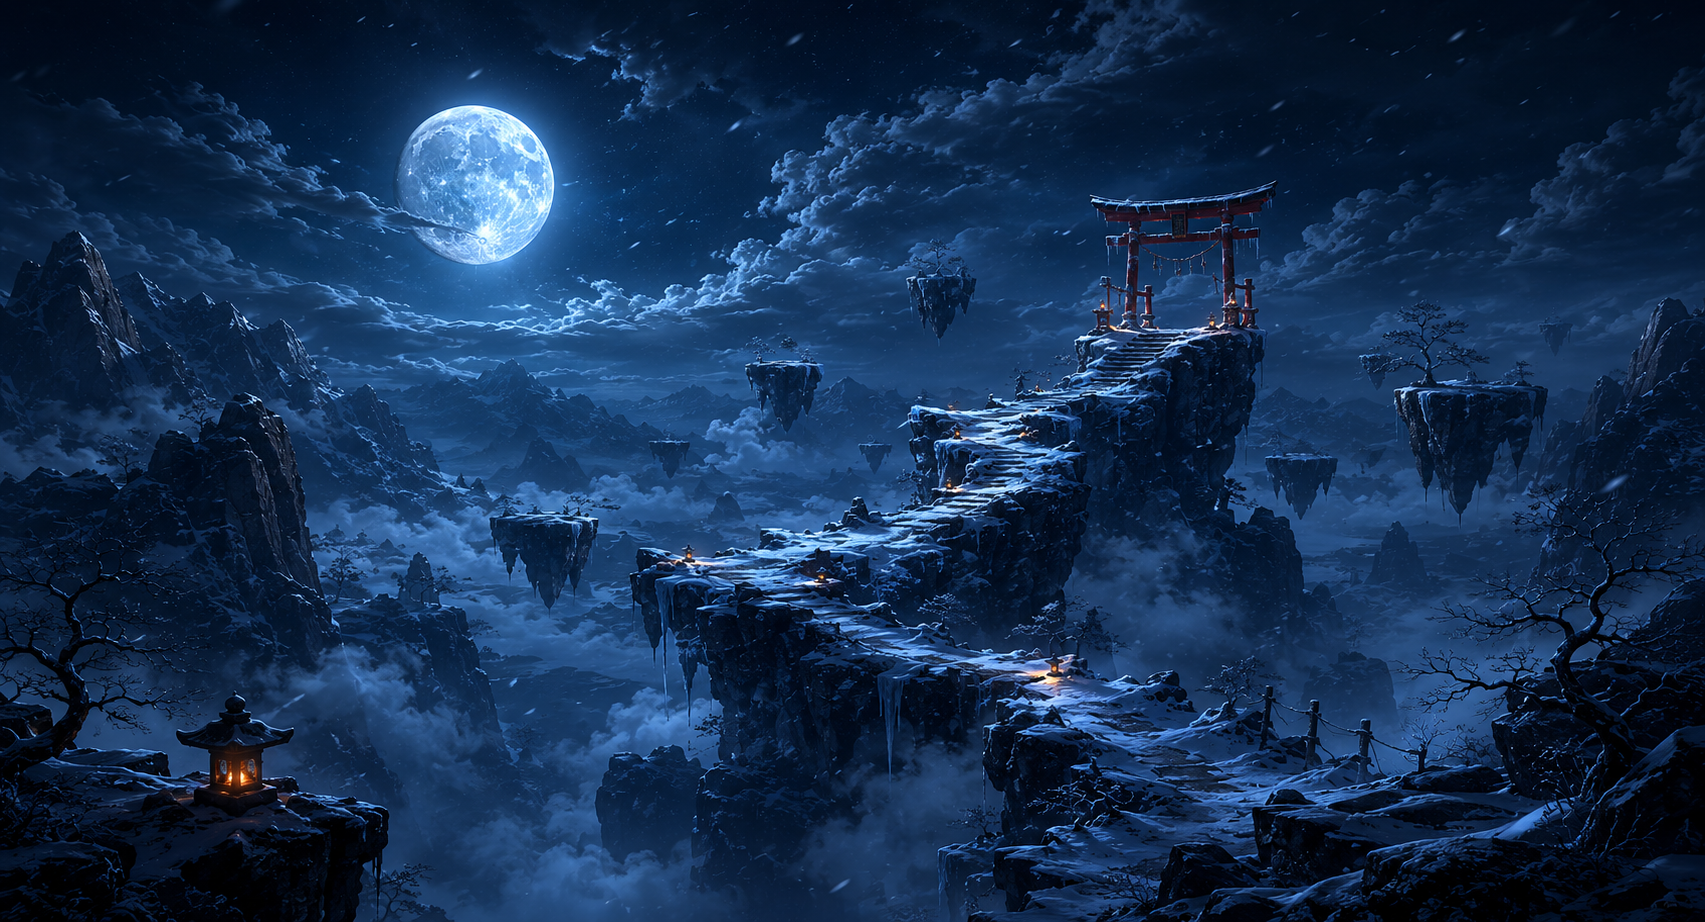
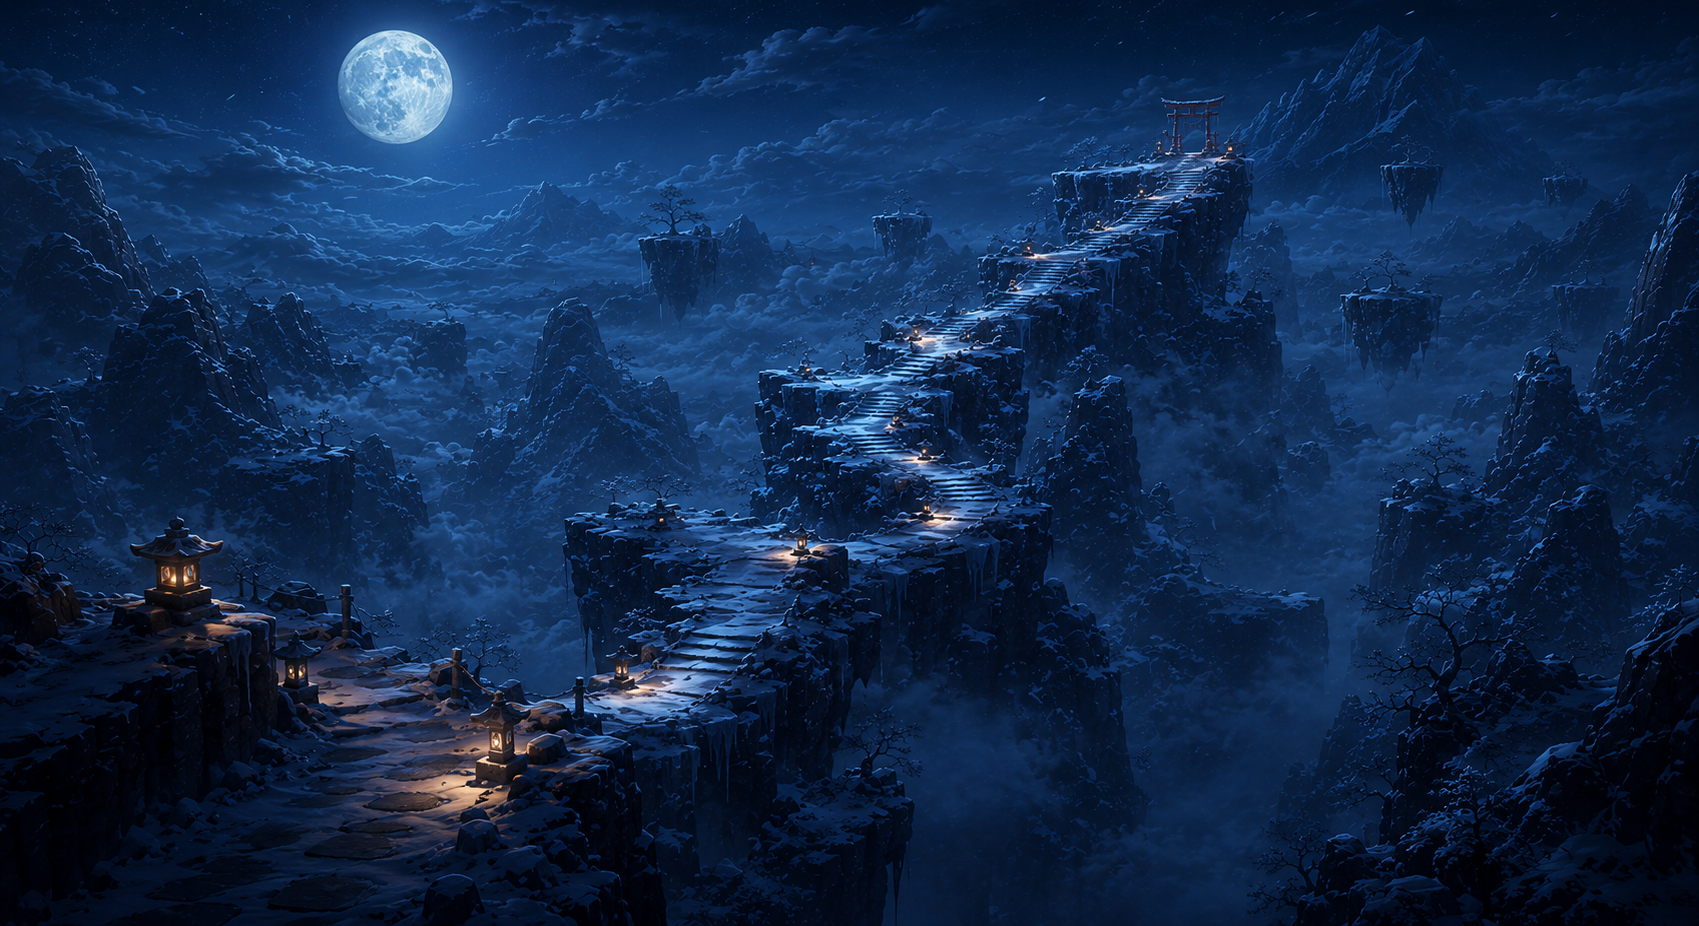
se añadi mecanica de muerte y escenario para el nivel2

diff --git a/gui/escenajuego.cpp b/gui/escenajuego.cpp
@@ -2,13 +2,17 @@
 
 #include <algorithm>
 #include <QAudioOutput>
+#include <QApplication>
 #include <QCoreApplication>
+#include <QDebug>
 #include <QDir>
 #include <QFileInfo>
 #include <QMediaPlayer>
+#include <QMouseEvent>
 #include <QPainter>
 #include <QRandomGenerator>
 #include <QUrl>
+#include <stdexcept>
 
 void detenerMusicaMenuNivel1();
 
@@ -44,6 +48,32 @@ static QString rutaRecurso(const QString& nombreArchivo)
 static QString rutaSonido(const QString& nombreArchivo)
 {
     return rutaRecurso("sounds/" + nombreArchivo);
+}
+
+static void exigirRecurso(const QString& nombreArchivo)
+{
+    const QString ruta = rutaRecurso(nombreArchivo);
+    if(!QFileInfo::exists(ruta))
+        throw std::runtime_error(("No se encontro el recurso: " + nombreArchivo).toStdString());
+}
+
+static void validarRecursosCriticos()
+{
+    const QStringList recursos = {
+        "sprites.png",
+        "spritesreves.png",
+        "sprites2.png",
+        "wasted.png",
+        "repetir.png",
+        "salir.png",
+        "sounds/nivel1.mp3",
+        "sounds/nivel2.mp3",
+        "sounds/golpe_danio.mp3",
+        "sounds/muerte.mp3"
+    };
+
+    for(const QString& recurso : recursos)
+        exigirRecurso(recurso);
 }
 
 static QPixmap quitarFondoAzul(const QString& ruta)
@@ -98,6 +128,15 @@ EscenaJuego::EscenaJuego(QWidget *parent, int dificultad)
     jugador(100, 100),
     gravedad(0.5f)
 {
+    try
+    {
+        validarRecursosCriticos();
+    }
+    catch(const std::exception& error)
+    {
+        qWarning() << error.what();
+    }
+
     escena = new QGraphicsScene(this);
     setScene(escena);
     etapa    = 1;
@@ -155,18 +194,24 @@ EscenaJuego::EscenaJuego(QWidget *parent, int dificultad)
     QPixmap hojaSprites(rutaRecurso("sprites.png"));
     QPixmap hojaSpritesReves(rutaRecurso("spritesreves.png"));
     QPixmap hojaSprites2(rutaRecurso("sprites2.png"));
-    spriteQuieto = quitarFondoNegro(hojaSprites.copy(45, 45, 260, 280));
-    spriteSaltar = quitarFondoNegro(hojaSprites.copy(330, 45, 260, 290));
-    spriteCayendo = quitarFondoNegro(hojaSprites.copy(55, 340, 300, 230));
-    spriteQuietoReves = quitarFondoNegro(hojaSpritesReves.copy(110, 85, 320, 380));
-    spriteSaltarReves = quitarFondoNegro(hojaSpritesReves.copy(560, 80, 330, 400));
-    spriteCayendoReves = quitarFondoNegro(hojaSpritesReves.copy(110, 520, 420, 275));
+    spriteNivel1Quieto = quitarFondoNegro(hojaSprites.copy(45, 45, 260, 280));
+    spriteNivel1Saltar = quitarFondoNegro(hojaSprites.copy(330, 45, 260, 290));
+    spriteNivel1Cayendo = quitarFondoNegro(hojaSprites.copy(55, 340, 300, 230));
+    spriteNivel1QuietoReves = quitarFondoNegro(hojaSpritesReves.copy(110, 85, 320, 380));
+    spriteNivel1SaltarReves = quitarFondoNegro(hojaSpritesReves.copy(560, 80, 330, 400));
+    spriteNivel1CayendoReves = quitarFondoNegro(hojaSpritesReves.copy(110, 520, 420, 275));
+    spriteNivel2Quieto = quitarFondoNegro(hojaSprites2.copy(85, 95, 330, 345));
+    spriteNivel2Saltar = quitarFondoNegro(hojaSprites2.copy(470, 35, 315, 365));
+    spriteNivel2Cayendo = quitarFondoNegro(hojaSprites2.copy(760, 265, 490, 205));
+    usarSpritesNivel1();
     spriteMuerto = quitarFondoNegro(QPixmap(rutaRecurso("Muerto.png")));
     spriteProteccion = quitarFondoNegro(QPixmap(rutaRecurso("proteccion.png")));
     spriteGolpe = quitarFondoNegro(QPixmap(rutaRecurso("golpe.png")));
     spriteGolpeEscudo = quitarFondoNegro(QPixmap(rutaRecurso("golpescudo.png")));
     spritePortal = hojaSprites2.copy(1235, 430, 405, 385).scaled(
         150, 155, Qt::KeepAspectRatio, Qt::SmoothTransformation);
+    spritePortalGuia = quitarFondoNegro(hojaSprites2.copy(450, 505, 270, 335)).scaled(
+        92, 112, Qt::KeepAspectRatio, Qt::SmoothTransformation);
     spriteAyuda = quitarFondoNegro(QPixmap(rutaRecurso("vida.png"))).scaled(
         82, 82, Qt::KeepAspectRatio, Qt::SmoothTransformation);
     spritePlataformaNieve = quitarFondoNegro(hojaSprites.copy(440, 375, 390, 180));
@@ -174,6 +219,9 @@ EscenaJuego::EscenaJuego(QWidget *parent, int dificultad)
         52, 52, Qt::KeepAspectRatio, Qt::SmoothTransformation);
     spritePiso.load(rutaRecurso("piso.png"));
     spritePiso2.load(rutaRecurso("piso2.png"));
+    spriteWasted = QPixmap(rutaRecurso("wasted.png"));
+    spriteBotonRepetir = QPixmap(rutaRecurso("repetir.png"));
+    spriteBotonSalir = QPixmap(rutaRecurso("salir.png"));
 
     jugadorVisual = escena->addPixmap(spriteQuieto.scaled(80, 80, Qt::KeepAspectRatio,
                                                           Qt::SmoothTransformation));
@@ -246,6 +294,26 @@ void EscenaJuego::agregarPiso(float x, float yMundo, float ancho, float alto)
     plataformasVisuales.push_back(piso);
 }
 
+void EscenaJuego::usarSpritesNivel1()
+{
+    spriteQuieto = spriteNivel1Quieto;
+    spriteSaltar = spriteNivel1Saltar;
+    spriteCayendo = spriteNivel1Cayendo;
+    spriteQuietoReves = spriteNivel1QuietoReves;
+    spriteSaltarReves = spriteNivel1SaltarReves;
+    spriteCayendoReves = spriteNivel1CayendoReves;
+}
+
+void EscenaJuego::usarSpritesNivel2()
+{
+    spriteQuieto = spriteNivel2Quieto;
+    spriteSaltar = spriteNivel2Saltar;
+    spriteCayendo = spriteNivel2Cayendo;
+    spriteQuietoReves = spriteNivel2Quieto;
+    spriteSaltarReves = spriteNivel2Saltar;
+    spriteCayendoReves = spriteNivel2Cayendo;
+}
+
 void EscenaJuego::construirMundo(int mundoAlto)
 {
     const int pisoBaseY = mundoAlto - ALTO_PANTALLA;
@@ -301,6 +369,10 @@ void EscenaJuego::construirMundo(int mundoAlto)
     meta = escena->addPixmap(spritePortal);
     meta->setPos(columnaEscaladaX + 620, 415);
     meta->setZValue(8);
+
+    QGraphicsPixmapItem* guiaPortal = escena->addPixmap(spritePortalGuia);
+    guiaPortal->setPos(columnaEscaladaX + 500, 448);
+    guiaPortal->setZValue(9);
 }
 
 void EscenaJuego::limpiarPlataformas()
@@ -391,6 +463,7 @@ void EscenaJuego::reproducirSonidoMuerte()
 void EscenaJuego::construirNivel2()
 {
     escena->clear();
+    usarSpritesNivel2();
     fondosItems.clear();
     plataformas.clear();
     obstaculos.clear();
@@ -406,6 +479,9 @@ void EscenaJuego::construirNivel2()
     ayudaVisual = nullptr;
     relojVisual = nullptr;
     vidaVisual = nullptr;
+    wastedVisual = nullptr;
+    botonRepetirVisual = nullptr;
+    botonSalirVisual = nullptr;
 
     escena->setSceneRect(0, 0, ANCHO_PANTALLA * 3, ALTO_PANTALLA);
 
@@ -470,16 +546,47 @@ void EscenaJuego::recibirDanio(int cantidad)
         timer->stop();
         juegoTerminado = true;
         reproducirSonidoMuerte();
+        mostrarPantallaMuerte();
+    }
+}
+
+void EscenaJuego::mostrarPantallaMuerte()
+{
+    QRectF vista = mapToScene(viewport()->rect()).boundingRect();
+    const QPointF centro = vista.center();
+
+    if(jugadorVisual && !spriteMuerto.isNull())
+    {
         jugadorVisual->setPixmap(spriteMuerto.scaled(95, 75, Qt::KeepAspectRatio,
                                                      Qt::SmoothTransformation));
         jugadorVisual->setPos(jugador.getX(), jugador.getY());
-
-        QGraphicsTextItem* texto = escena->addText("SIN VIDA");
-        texto->setDefaultTextColor(Qt::red);
-        texto->setScale(3);
-        texto->setZValue(1001);
-        texto->setPos(jugador.getX() - 80, jugador.getY() - 120);
     }
+
+    if(!spriteWasted.isNull())
+    {
+        wastedVisual = escena->addPixmap(spriteWasted.scaled(
+            310, 170, Qt::KeepAspectRatio, Qt::SmoothTransformation));
+        wastedVisual->setPos(centro.x() - wastedVisual->boundingRect().width() / 2.0,
+                             centro.y() - 180);
+        wastedVisual->setZValue(2000);
+    }
+
+    const QPixmap repetir = spriteBotonRepetir.scaled(
+        180, 126, Qt::KeepAspectRatio, Qt::SmoothTransformation);
+    const QPixmap salir = spriteBotonSalir.scaled(
+        180, 126, Qt::KeepAspectRatio, Qt::SmoothTransformation);
+    const float espacio = 24.0f;
+    const float totalAncho = repetir.width() + salir.width() + espacio;
+    const float yBotones = centro.y() + 20;
+
+    botonRepetirVisual = escena->addPixmap(repetir);
+    botonRepetirVisual->setPos(centro.x() - totalAncho / 2.0, yBotones);
+    botonRepetirVisual->setZValue(2001);
+
+    botonSalirVisual = escena->addPixmap(salir);
+    botonSalirVisual->setPos(centro.x() - totalAncho / 2.0 + repetir.width() + espacio,
+                             yBotones);
+    botonSalirVisual->setZValue(2001);
 }
 
 void EscenaJuego::curarJugador(int cantidad)
@@ -489,6 +596,54 @@ void EscenaJuego::curarJugador(int cantidad)
     vidaJugador = std::min(100, vidaJugador + cantidad);
     jugador.setVida(vidaJugador);
     actualizarVidaVisual();
+}
+
+void EscenaJuego::reiniciarNivelActual()
+{
+    if(musica) musica->stop();
+
+    juegoTerminado = false;
+    vidaJugador = 100;
+    jugador.setVida(vidaJugador);
+    jugador.setVelocidadX(0);
+    jugador.setVelocidadY(0);
+    jugador.setEnSuelo(true);
+    protegiendo = false;
+    potenciadorActivo = false;
+    tipoImpacto = 0;
+    estabaCayendo = false;
+
+    if(nivelJuego == 2)
+    {
+        construirNivel2();
+        reproducirMusicaNivel2();
+    }
+    else
+    {
+        if(wastedVisual) escena->removeItem(wastedVisual);
+        if(botonRepetirVisual) escena->removeItem(botonRepetirVisual);
+        if(botonSalirVisual) escena->removeItem(botonSalirVisual);
+        delete wastedVisual;
+        delete botonRepetirVisual;
+        delete botonSalirVisual;
+        wastedVisual = nullptr;
+        botonRepetirVisual = nullptr;
+        botonSalirVisual = nullptr;
+
+        usarSpritesNivel1();
+        jugador.setX(100);
+        jugador.setY(escena->sceneRect().bottom() - 150);
+        if(jugadorVisual)
+        {
+            jugadorVisual->setPixmap(spriteQuieto.scaled(80, 80, Qt::KeepAspectRatio,
+                                                         Qt::SmoothTransformation));
+            jugadorVisual->setPos(jugador.getX(), jugador.getY());
+        }
+        actualizarVidaVisual();
+        centerOn(jugador.getX() + 25, jugador.getY() + 25);
+    }
+
+    if(timer) timer->start(16);
 }
 
 void EscenaJuego::mostrarImpacto(bool conEscudo)
@@ -981,4 +1136,25 @@ void EscenaJuego::keyReleaseEvent(QKeyEvent *event)
 
     if(event->key() == Qt::Key_S)
         protegiendo = false;
+}
+
+void EscenaJuego::mousePressEvent(QMouseEvent *event)
+{
+    const QPointF punto = mapToScene(event->pos());
+
+    if(juegoTerminado && botonRepetirVisual &&
+        botonRepetirVisual->sceneBoundingRect().contains(punto))
+    {
+        reiniciarNivelActual();
+        return;
+    }
+
+    if(juegoTerminado && botonSalirVisual &&
+        botonSalirVisual->sceneBoundingRect().contains(punto))
+    {
+        qApp->quit();
+        return;
+    }
+
+    QGraphicsView::mousePressEvent(event);
 }

diff --git a/gui/escenajuego.h b/gui/escenajuego.h
@@ -79,7 +79,20 @@ private:
     void reproducirSonidoMuerte();
     void cambiarANivel2();
     void actualizarHud();
+    void mostrarPantallaMuerte();
+    void reiniciarNivelActual();
+    void usarSpritesNivel1();
+    void usarSpritesNivel2();
 
+    QPixmap spriteNivel1Quieto;
+    QPixmap spriteNivel1Saltar;
+    QPixmap spriteNivel1Cayendo;
+    QPixmap spriteNivel1QuietoReves;
+    QPixmap spriteNivel1SaltarReves;
+    QPixmap spriteNivel1CayendoReves;
+    QPixmap spriteNivel2Quieto;
+    QPixmap spriteNivel2Saltar;
+    QPixmap spriteNivel2Cayendo;
     QPixmap spriteQuieto;
     QPixmap spriteCorrer;
     QPixmap spriteSaltar;
@@ -97,6 +110,10 @@ private:
     QPixmap spritePiso2;
     QPixmap spriteAyuda;
     QPixmap spriteCuracion;
+    QPixmap spriteWasted;
+    QPixmap spriteBotonRepetir;
+    QPixmap spriteBotonSalir;
+    QPixmap spritePortalGuia;
     QTimer* timer;
 
     Jugador              jugador;
@@ -116,6 +133,9 @@ private:
     std::vector<QPixmap>               spritesReloj;
     QGraphicsPixmapItem* ayudaVisual = nullptr;
     QGraphicsPixmapItem* relojVisual = nullptr;
+    QGraphicsPixmapItem* wastedVisual = nullptr;
+    QGraphicsPixmapItem* botonRepetirVisual = nullptr;
+    QGraphicsPixmapItem* botonSalirVisual = nullptr;
     float velocidadAyuda = 2.5f;
     QElapsedTimer tiempoPotenciador;
     QElapsedTimer tiempoImpacto;
@@ -163,6 +183,7 @@ public:
 protected:
     void keyPressEvent(QKeyEvent *event) override;
     void keyReleaseEvent(QKeyEvent *event) override;
+    void mousePressEvent(QMouseEvent *event) override;
 };
 
 #endif